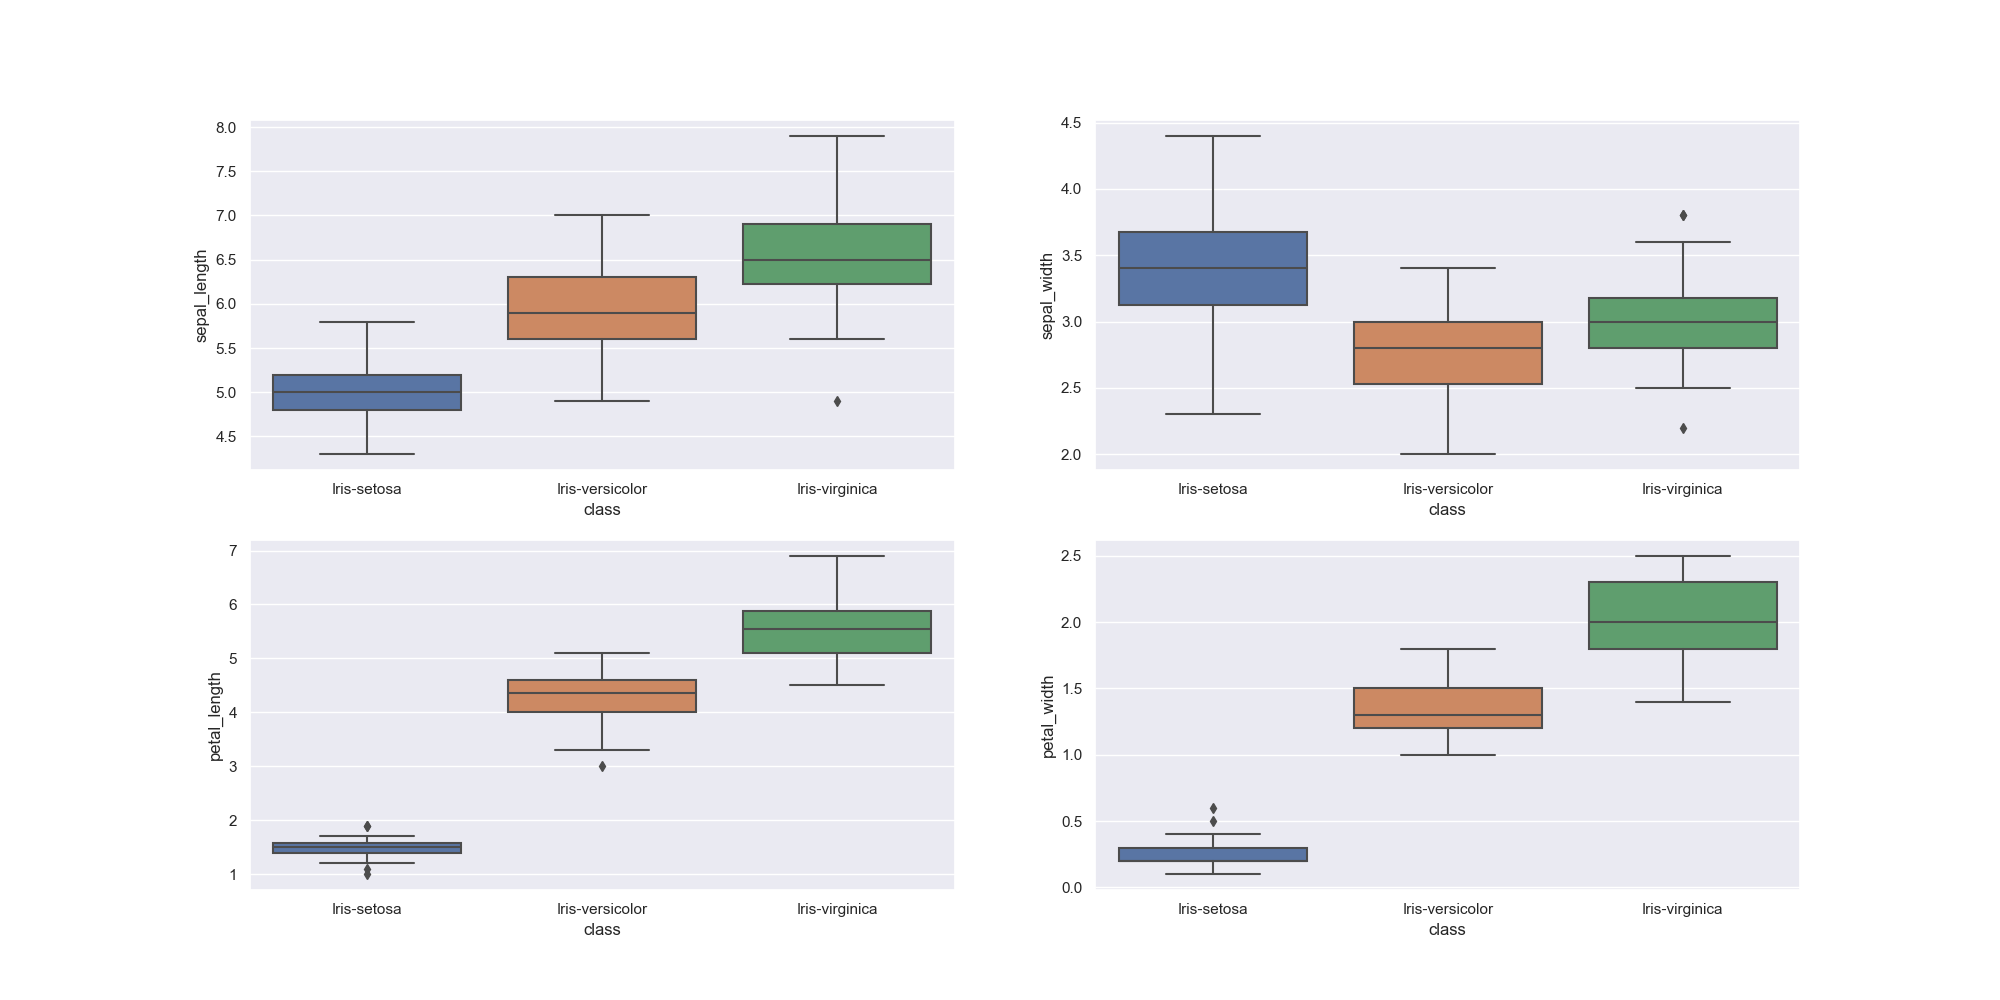
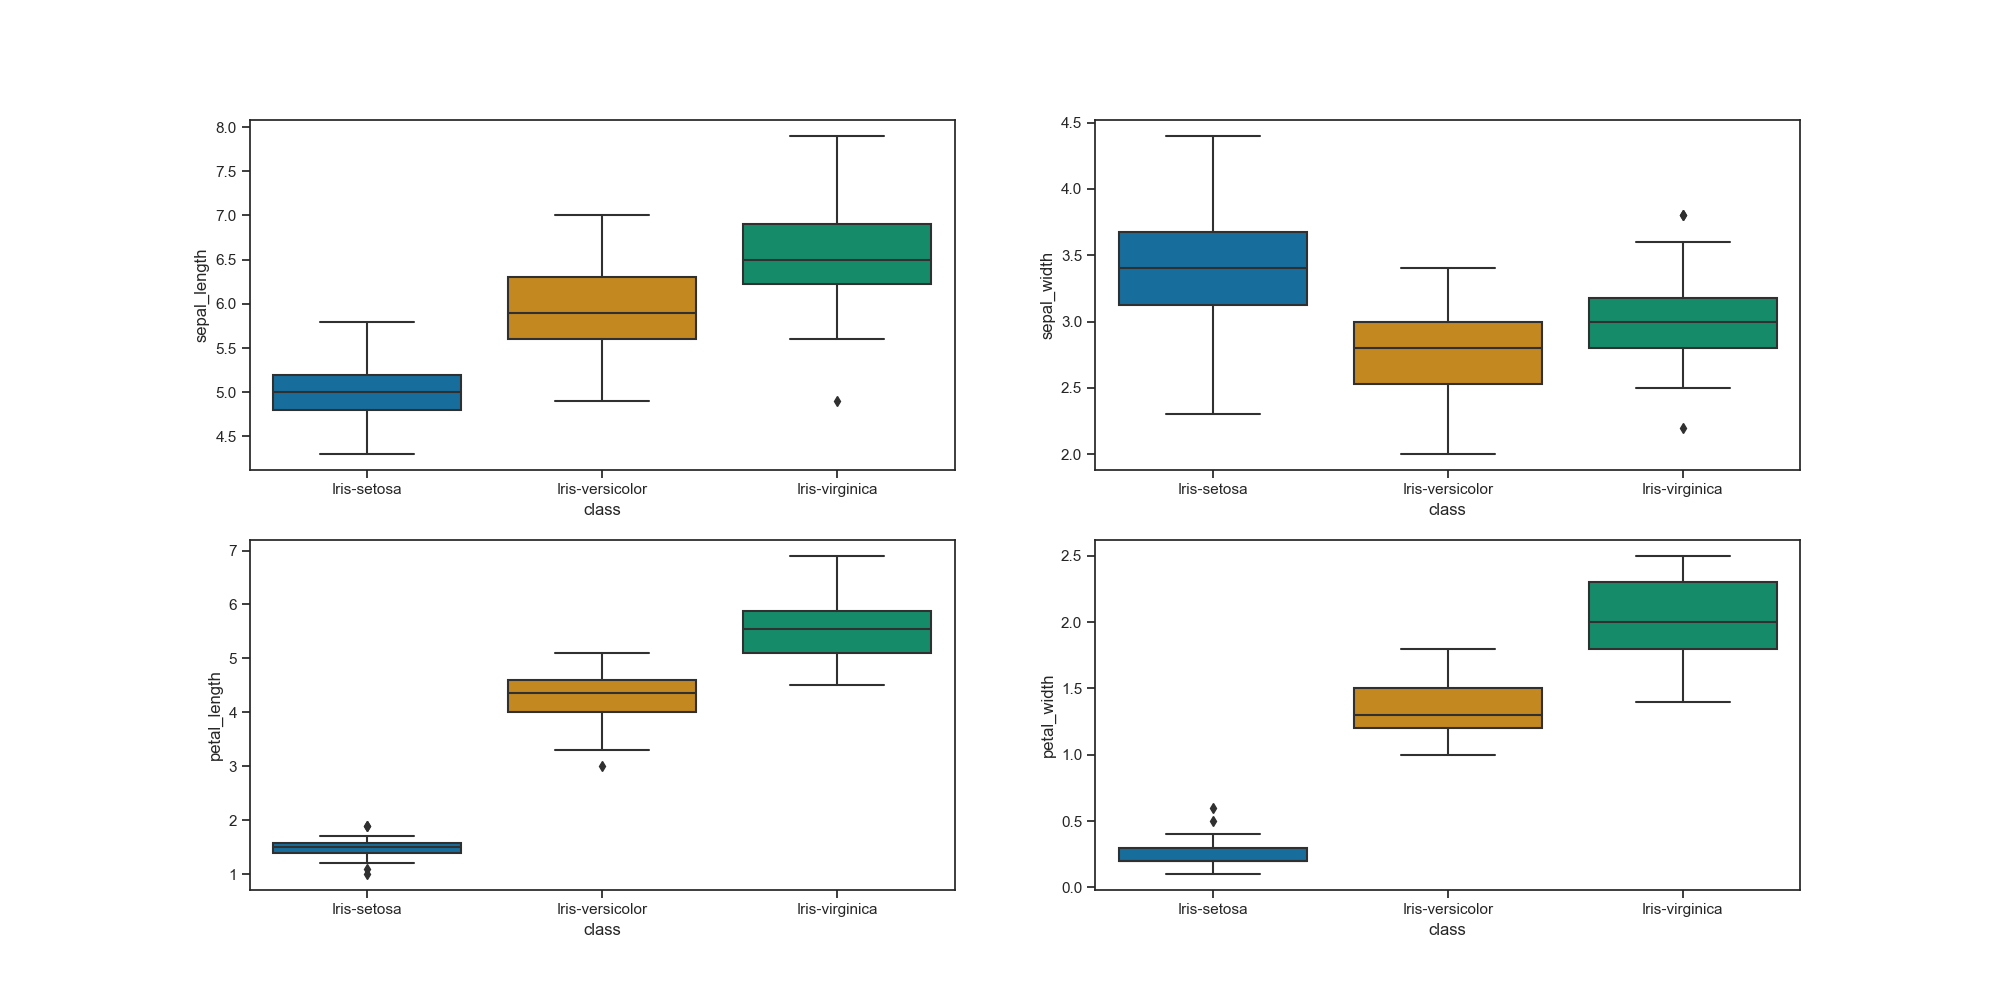
Updated with some modifications on the plots, class bar plot, variables histogram and heat map by class

diff --git a/analysis.py b/analysis.py
@@ -15,6 +15,14 @@ column_name = ['sepal_length', 'sepal_width',
                'petal_length', 'petal_width', 'class']
 df = pd.read_csv('iris_data.csv', names=column_name)
 
+
+# Prints out information about the dataset:
+print(df.info())
+
+
+# Prints out the first 10 rows of the dataset:
+print(df.head(10))
+
 # Creates a txt file called "variables_summary.txt" and writes a summary of each variable in it.
 # Also, it converts the Summary statistics of the Dataframe into a string in order to be able to save it into the file:
 
@@ -37,12 +45,23 @@ https://www.sharpsightlabs.com/blog/pandas-describe/
 https://pandas.pydata.org/docs/reference/api/pandas.DataFrame.describe.html
 https://github.com/andrewbeattycourseware/pands2022/blob/main/jupyternotebooks/Topic07%20files.ipynb
 https://pandas.pydata.org/docs/reference/api/pandas.DataFrame.to_string.html
+https://www.w3schools.com/python/pandas/ref_df_info.asp#:~:text=The%20info()%20method%20prints,method%20actually%20prints%20the%20info. 
+https://www.w3resource.com/pandas/dataframe/dataframe-head.php
 
 
 """
 
 
 # SECTION 2: Saves a histogram of each variable to png files
+
+
+# Histogram of each qualitative variable
+variables_histogram = df.hist(bins=15, color='blue', edgecolor='black', grid = False, xlabelsize=8, ylabelsize=8)
+plt.suptitle('Variables Histogram',
+             fontsize=12.0, fontweight='bold', y=0.99)
+plt.savefig("variables_histogram.png")
+plt.close()
+
 
 # Creates four files with histograms by class for each quantitative variable (sepal length, sepal width, petal_length and petal_width):
 sepal_lenght_hist = df.hist(column='sepal_length', by='class', bins=15,
@@ -53,7 +72,7 @@ plt.savefig("sepal_lenght_hist.png")
 plt.close()
 
 sepal_width_hist = df.hist(column='sepal_width', by='class', bins=15,
-                           xlabelsize=8, ylabelsize=8, xrot=360, color='blue', edgecolor='black')
+                           xlabelsize=8, ylabelsize=8, xrot=360, color='pink', edgecolor='black')
 plt.suptitle('Sepal Width Histograms by Class',
              fontsize=12.0, fontweight='bold', y=0.99)
 plt.savefig("sepal_width_hist.png")
@@ -149,7 +168,7 @@ plt.close()
 
 
 # Sets seaborn plotting aesthetics as default
-sns.set()
+sns.set(style='ticks', palette= 'colorblind')
 
 # Defines plotting region (2 rows, 2 columns)
 fig, axes = plt.subplots(2, 2)
@@ -174,6 +193,44 @@ with open(filename, 'wt') as f:
     f.write(variables_summary_by_class)
 
 
+# SECTION 4.4:
+
+class_barplot = sns.countplot(x='class', data=df )
+plt.savefig("class_barplot.png")
+plt.close()
+
+
+# SECTION 4.5: Variables Correlation Heatmap Group by Class
+
+sns.set(style='ticks')
+
+#  Defines plotting region (2 rows, 2 columns)
+fig, axes = plt.subplots(2, 2)
+plt.gcf().set_size_inches(20, 10)
+
+df_groupby_class = df.groupby(['class'])
+
+iris_virginica_heatmap_axes = axes[0, 0]
+iris_virginica_heatmap_axes.set(title="Correlation Heatmap for Iris Virginica")
+
+iris_setosa_heatmap_axes = axes[0, 1]
+iris_setosa_heatmap_axes.set(title="Correlation Heatmap for Iris Setosa")
+
+iris_versicolor_heatmap_axes = axes[1, 0]
+iris_versicolor_heatmap_axes.set(title="Correlation Heatmap for Iris Versicolor")
+
+sns.heatmap(df_groupby_class.get_group('Iris-virginica').corr(), vmin=-1, vmax=1, annot=True,
+            linecolor='white', linewidth=1, cmap='GnBu', ax=iris_virginica_heatmap_axes)
+sns.heatmap(df_groupby_class.get_group('Iris-setosa').corr(), vmin=-1, vmax=1, annot=True,
+            linecolor='white', linewidth=1, cmap='GnBu', ax=iris_setosa_heatmap_axes)
+sns.heatmap(df_groupby_class.get_group('Iris-versicolor').corr(), vmin=-1, vmax=1, annot=True,
+            linecolor='white', linewidth=1, cmap='GnBu', ax=iris_versicolor_heatmap_axes)
+axes[1, 1].axis('off')
+
+plt.savefig("heatmap_by_class.png")
+plt.close()
+
+
 
 
 
@@ -191,6 +248,13 @@ https://www.statology.org/seaborn-subplots/
 https://stackoverflow.com/questions/52274643/figsize-in-matplotlib-is-not-changing-the-figure-size
 https://pandas.pydata.org/docs/reference/api/pandas.DataFrame.groupby.html
 https://pandas.pydata.org/docs/reference/api/pandas.DataFrame.transpose.html
+https://towardsdatascience.com/matplotlib-seaborn-basics-2bd7b66dbee2
+https://s3.amazonaws.com/assets.datacamp.com/production/course_6919/slides/chapter2.pdf
+https://seaborn.pydata.org/tutorial/color_palettes.html
+https://seaborn.pydata.org/generated/seaborn.countplot.html
+https://stackoverflow.com/questions/10035446/how-can-i-make-a-blank-subplot-in-matplotlib
+https://stackoverflow.com/questions/32723798/how-do-i-add-a-title-and-axis-labels-to-seaborn-heatmap
+https://stackoverflow.com/questions/14734533/how-to-access-pandas-groupby-dataframe-by-key
 
 
 
